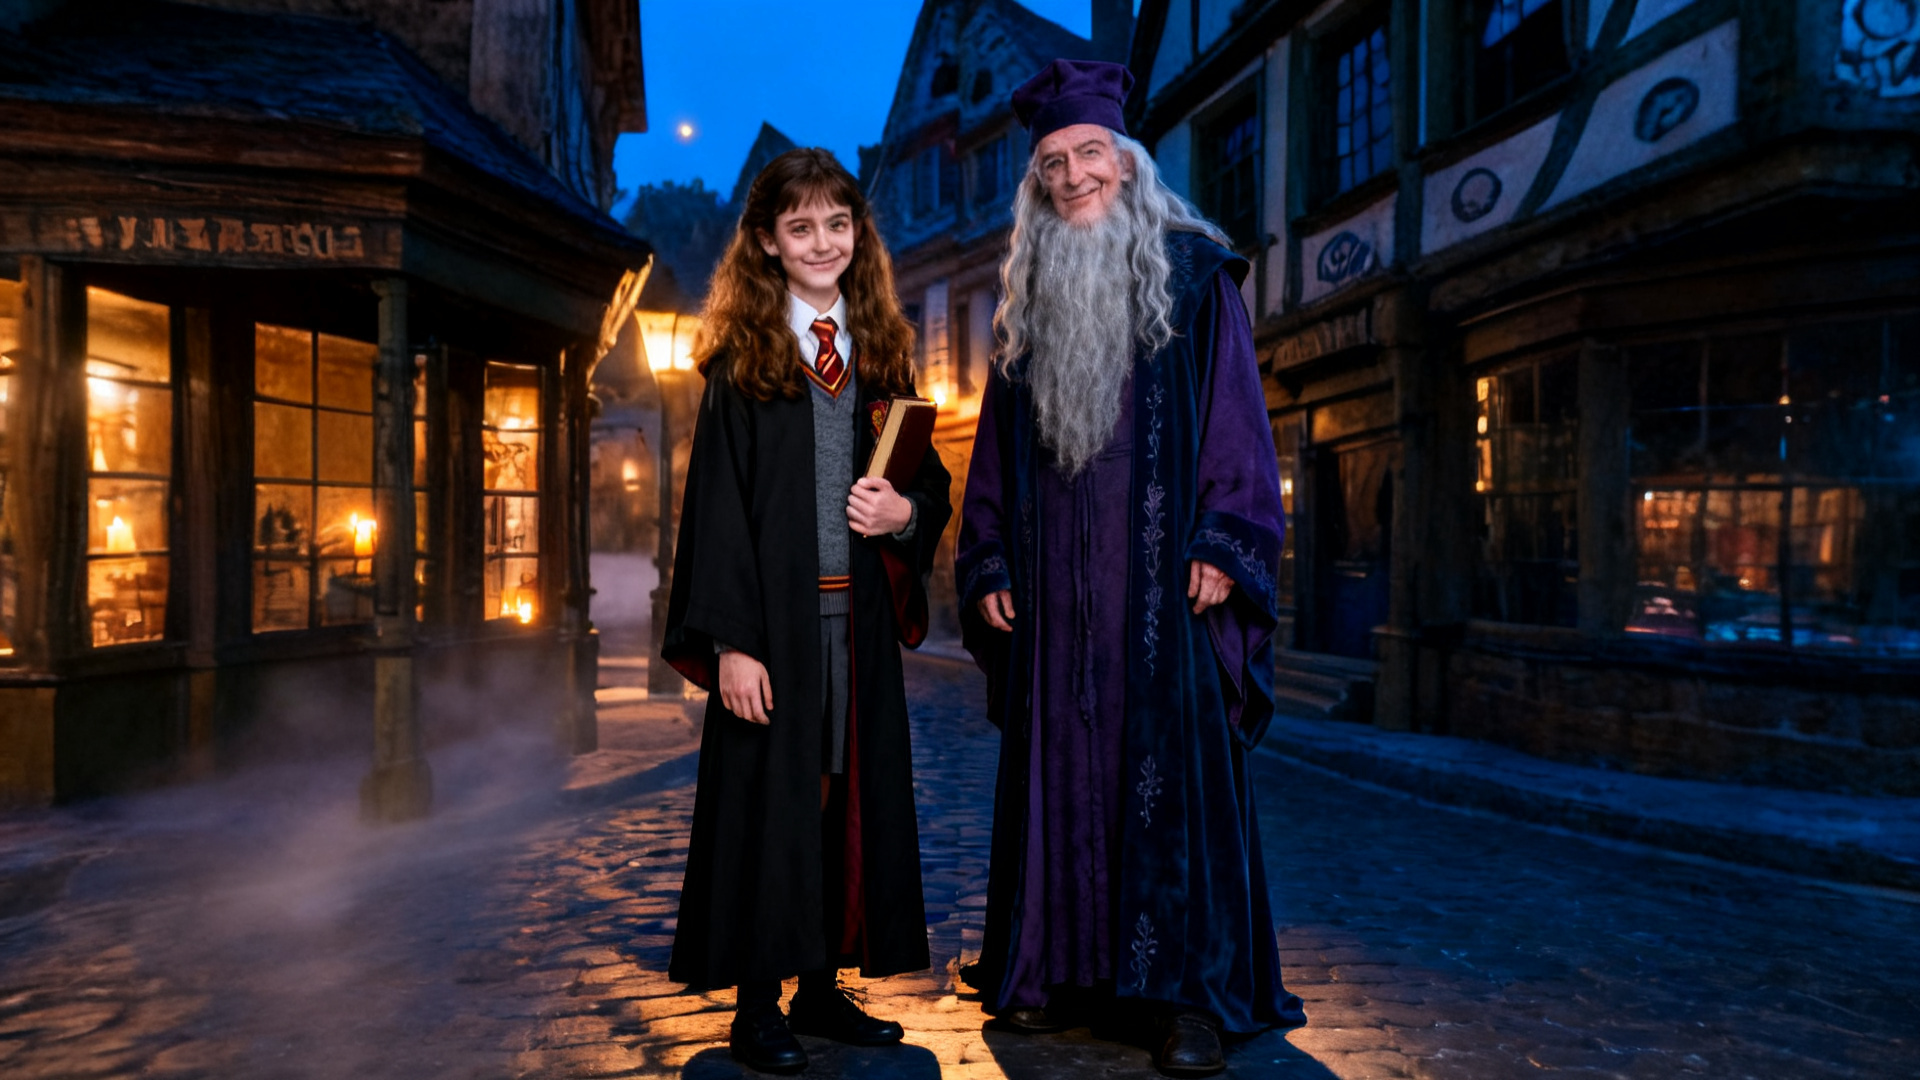
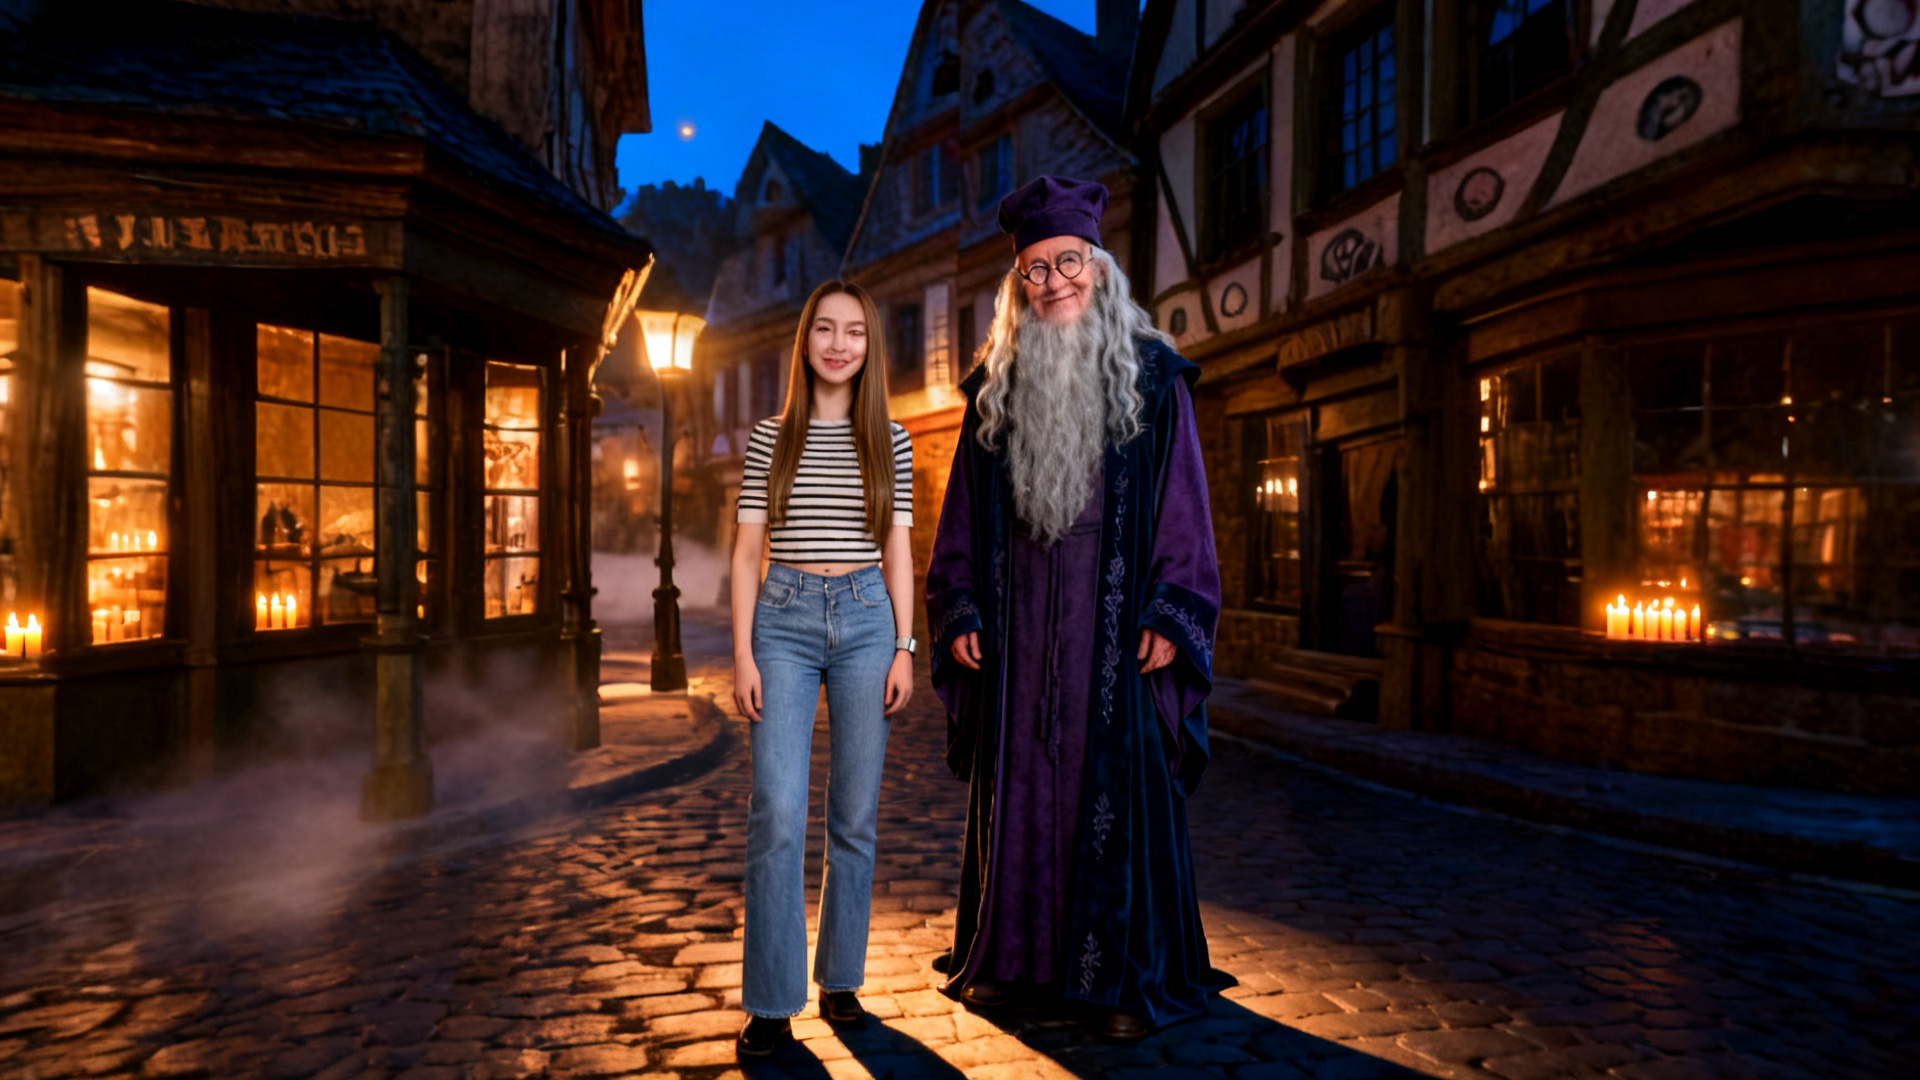
README photos: the author with Harry and Dumbledore

diff --git a/README.md b/README.md
@@ -13,7 +13,7 @@ See `DEMO.md` for the 2-minute stage script. `samples/photo-great-hall.jpg` is a
 |---|---|
 | ![Photo mode, Great Hall](samples/photo-great-hall.jpg) | ![Photo mode, Diagon Alley](samples/photo-diagon-alley.jpg) |
 
-Photo mode: press C, a webcam frame or an uploaded portrait plus a photoreal companion go to Seedream with the set behind you. About ten seconds later you have a live-action film still.
+Photo mode: press C. One phone photo of the author, taken at the hackathon under office lights, plus a photoreal companion go to Seedream with the set behind them. About ten seconds later: a live-action film still, relit by the set.
 
 | Hogwarts (fly) | Great Hall (walk) | Diagon Alley (walk) |
 |---|---|---|
